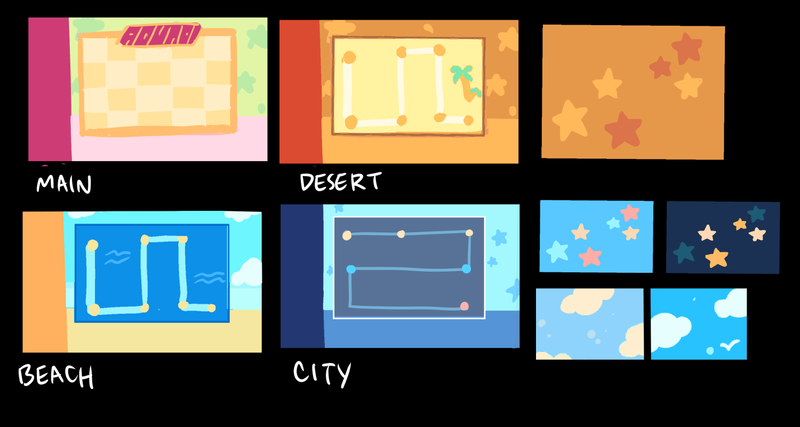
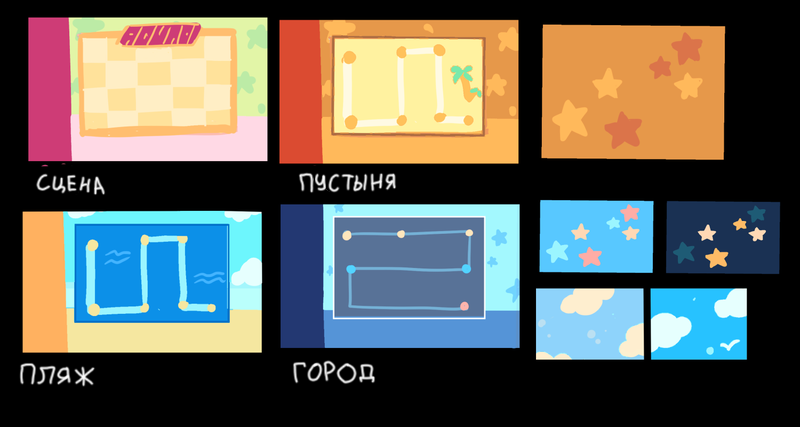
Added sprites and fixed font

diff --git a/index.html b/index.html
@@ -48,7 +48,7 @@
         <a href="https://toby.fangamer.com/assets/interviews/chapter3-chapter4/images/tvcity.png" class="cursor-zoom-in"
           data-fancybox=""><img class="mx-auto ls-is-cached lazyloaded" src="index_files/tvcity_thumb.png" height="535"
             width="800"></a>
-        <p class="text-sm text-gray-400 text-center -mt-4">Concept art by Gigi DG</p>
+        <p class="text-sm text-gray-400 text-center -mt-4">Концепт-арт от Gigi DG</p>
 
         <p>3 глава...</p>
 
@@ -129,9 +129,8 @@
           <a href="https://toby.fangamer.com/assets/interviews/chapter3-chapter4/images/desertconcepts_castle.png"
             class="cursor-zoom-in" data-fancybox="ch3"><img class="w-full h-48 object-cover ls-is-cached lazyloaded"
               src="index_files/desertconcepts_castle_thumb.png"></a>
-          <a href="https://toby.fangamer.com/assets/interviews/chapter3-chapter4/images/ocean.png"
-            class="cursor-zoom-in" data-fancybox="ch3"><img class="w-full h-48 object-cover ls-is-cached lazyloaded"
-              src="index_files/ocean_thumb.png"></a>
+          <a href="index_files/ocean.png" class="cursor-zoom-in" data-fancybox="ch3"><img
+              class="w-full h-48 object-cover ls-is-cached lazyloaded" src="index_files/ocean_thumb.png"></a>
         </div>
         <p class="text-sm text-gray-400 text-center -mt-4">Концепт-арт от Gigi DG</p>
 

diff --git a/index_files/index.5PMJA7MH.css b/index_files/index.5PMJA7MH.css
@@ -20,7 +20,7 @@ body {
     font-family: "8bitoperator_ru";
     font-style: normal;
     font-weight: 400;
-    src: url(/fonts/a.ttf) format("truetype");
+    src: url("../fonts/a.ttf") format("truetype");
 }
 
 body {
